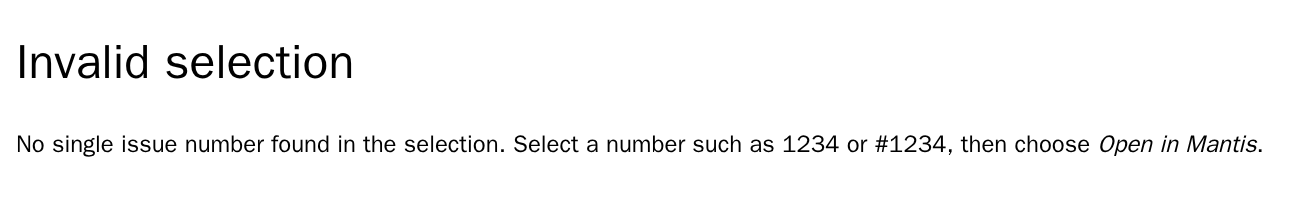
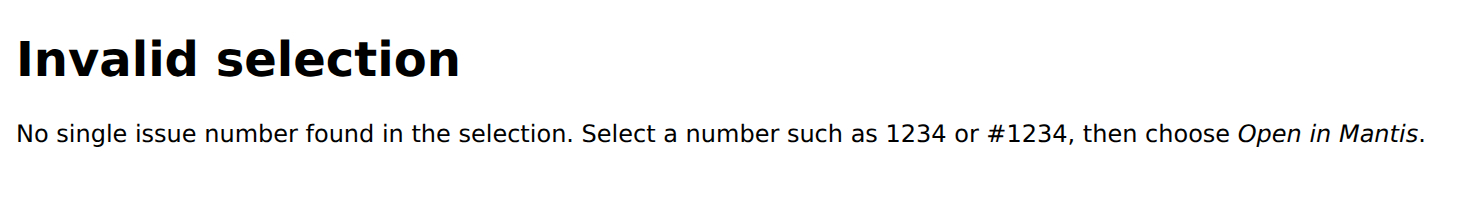
docs: invalid-selection screenshot from the Docs screenshots workflow
Chromium shows an extension page that sets no font in the host's UI
font. On the machine that took the first shot that was a CJK fallback
font without bold, so the heading came out regular. This shot is the
workflow's (ubuntu runner, DejaVu Sans). The options shots from the
workflow are byte-identical to the committed ones.

Changed region(s): [[0.0, 0.6061, 0.9688, 0.7576], [0.0, 0.1818, 0.3125, 0.3939]]

diff --git a/README.md b/README.md
@@ -26,7 +26,7 @@ The extension requires the following permissions:
    <img src="docs/screenshots/options-invalid.png" alt="The options page with mantis.example.com typed in; the hint to enter the address of the Mantis installation stays below the field" width="800">
 3. **Use it:** Highlight an issue number (e.g. `1234` or `#1234`) on a webpage, right-click, and select "Open in Mantis". If the selection holds no issue number, or several that are equally likely, this page opens instead:
 
-   <img src="docs/screenshots/menu-invalid-selection.png" alt="The Invalid selection page: No single issue number found in the selection" width="656">
+   <img src="docs/screenshots/menu-invalid-selection.png" alt="The Invalid selection page: No single issue number found in the selection" width="737">
 
 To use it in incognito windows, turn on "Allow in Incognito" (Chrome) or "Allow in InPrivate" (Edge) in the extension's details.
 
@@ -46,7 +46,7 @@ scripts/docs-screenshots.sh              # writes docs/screenshots/*.png
 scripts/docs-screenshots.sh ../shots     # another output dir
 ```
 
-The **Docs screenshots** workflow (Actions, manual) runs the same script and returns the PNGs as an artifact.
+The **Docs screenshots** workflow (Actions, manual) runs the same script and returns the PNGs as an artifact. The committed PNGs come from that workflow: Chromium shows the extension's own pages in the host's UI font where they set no font (the invalid-selection page), so a local run can differ there.
 
 ## Changelog
 

diff --git a/docs/screenshots/README.md b/docs/screenshots/README.md
@@ -31,4 +31,4 @@ address issue 1234 will open.
 Opens in a new tab when the selection holds no issue number, or several that are equally likely
 (here: “Issues 12 and 34”).
 
-<img src="menu-invalid-selection.png" alt="The Invalid selection page: No single issue number found in the selection" width="656">
+<img src="menu-invalid-selection.png" alt="The Invalid selection page: No single issue number found in the selection" width="737">
